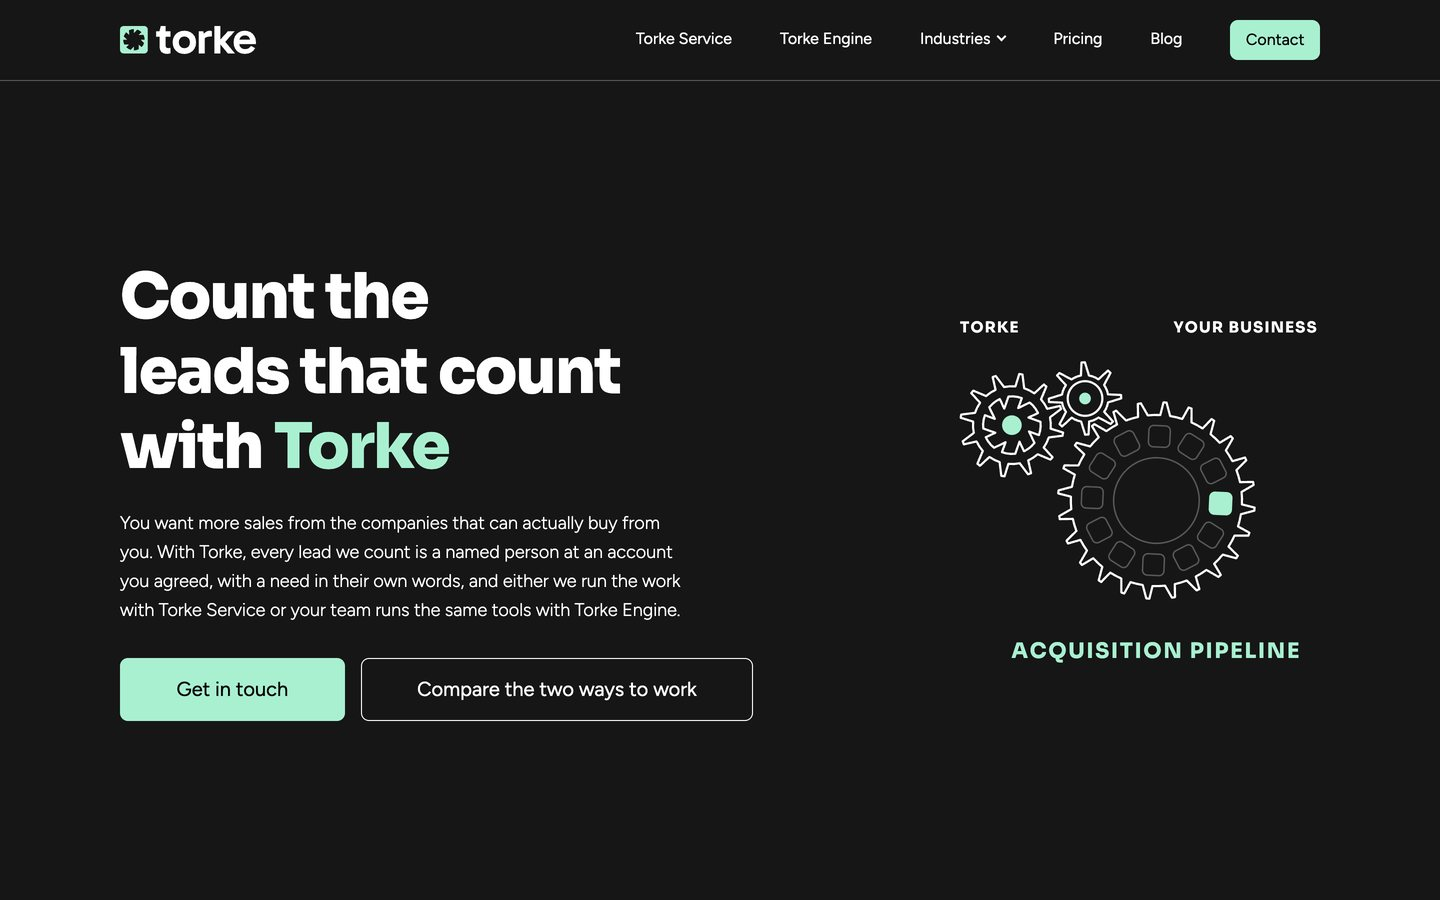
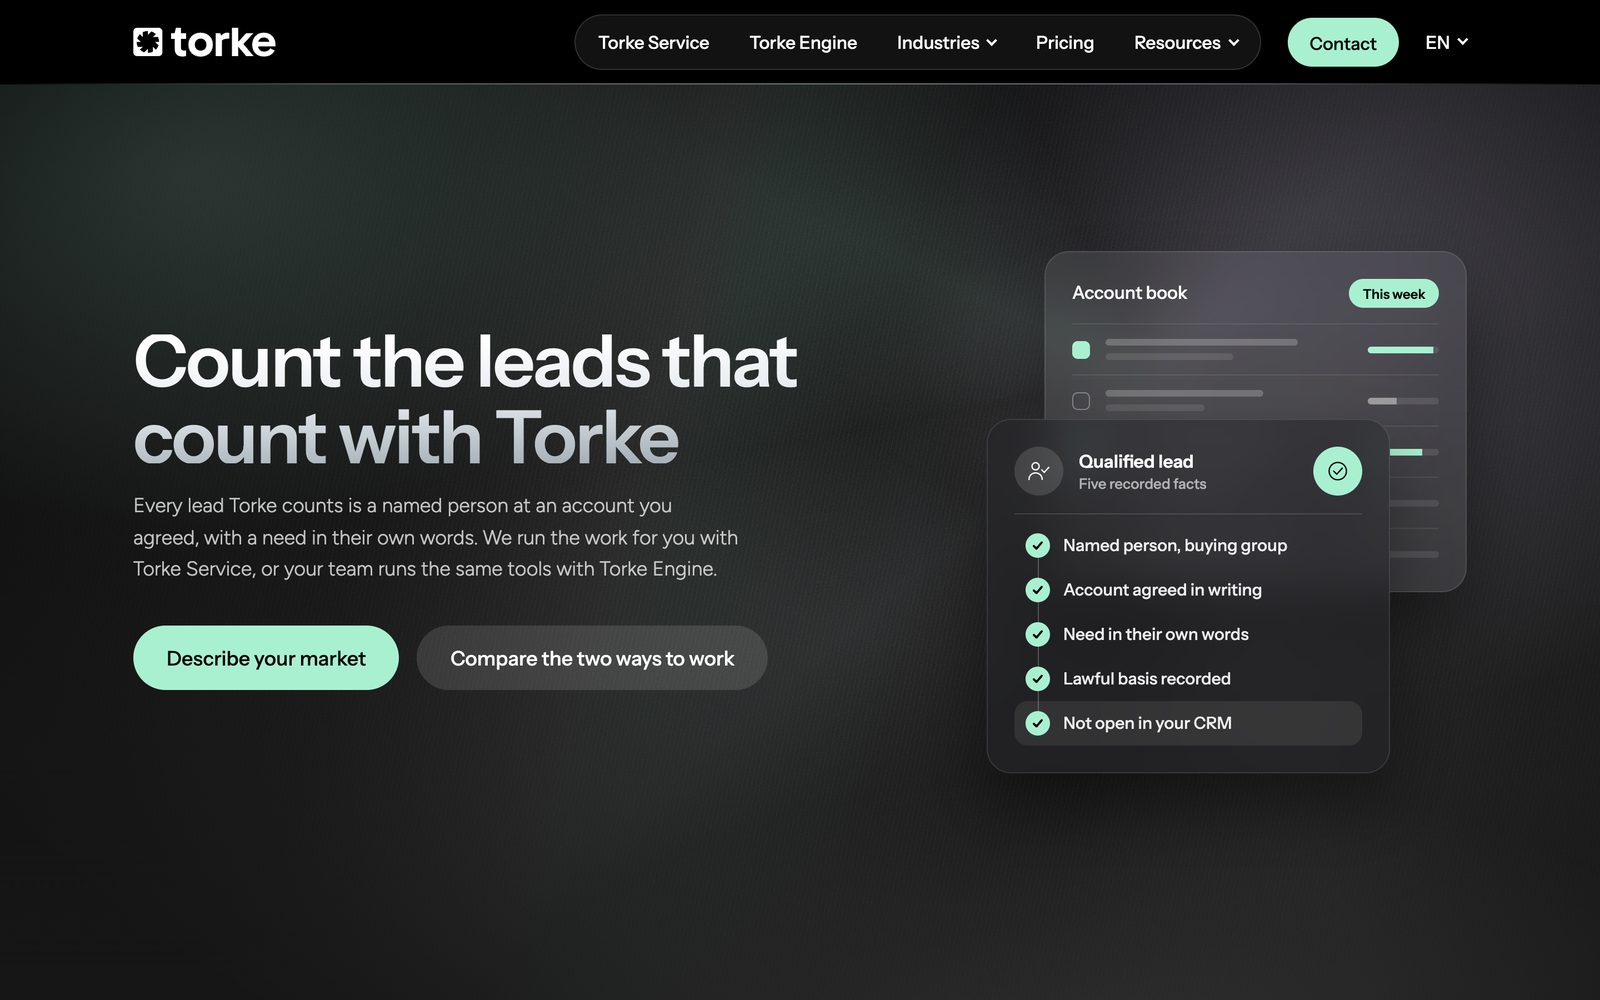
Torke: show the Website v3 brand and brand book v3.0 (#1)
Update only the Torke book: cover and notes to v3.0, Instrument Sans and
Figtree in place of Sora, new home and phone screenshots, two pages on the
floating panels and the pill buttons and glass form, four v3.0 brand book
pages, and the delivered list. Removes the retired v2 widget images.

diff --git a/index.html b/index.html
@@ -7,7 +7,7 @@
 <meta name="description" content="The brand books of Torke, Autobasket, Quanthome and Neurock: the story, the system, the website and the ads behind each one.">
 <link rel="preconnect" href="https://fonts.googleapis.com">
 <link rel="preconnect" href="https://fonts.gstatic.com" crossorigin>
-<link href="https://fonts.googleapis.com/css2?family=Figtree:wght@400;600;700&family=Geist:wght@400..800&family=Hanken+Grotesk:wght@400;500;600;700&family=IBM+Plex+Mono:wght@400;500&family=IBM+Plex+Sans:wght@400;600&family=Inter:wght@400;500;600&family=Lato:wght@400;700&family=Sora:wght@700;800&display=swap" rel="stylesheet">
+<link href="https://fonts.googleapis.com/css2?family=Figtree:wght@400;600;700&family=Geist:wght@400..800&family=Hanken+Grotesk:wght@400;500;600;700&family=IBM+Plex+Mono:wght@400;500&family=IBM+Plex+Sans:wght@400;600&family=Instrument+Sans:wght@500;600&family=Inter:wght@400;500;600&family=Lato:wght@400;700&family=Sora:wght@700;800&display=swap" rel="stylesheet">
 <link rel="stylesheet" href="styles.css">
 <script>document.documentElement.classList.add('js')</script>
 </head>
@@ -68,7 +68,7 @@
     <div class="notes">
       <article class="note n1"><h3>Who it speaks to</h3><p>Revenue leads at AI, robotics, sensing and data companies that sell to a few hundred named accounts, where a broad campaign spends its budget on people who will never buy.</p></article>
       <article class="note n2"><h3>Why a ratchet</h3><p>Torke reads as torque, the force that moves a heavy load. The mark chosen on 14 October 2026 is an internal ratchet, a part that turns forward and holds its position, which is what a pipeline should do.</p></article>
-      <article class="note n3"><h3>Why black, blush and aquamarine</h3><p>Every text pair is one dark colour on one light one, so black on aquamarine reaches 16.07:1. Aquamarine covers 5 percent of a page, so wherever it appears it marks the next step.</p></article>
+      <article class="note n3"><h3>Why black panels and one green</h3><p>Since Website v3 the page sits on black, and every section floats on it as a rounded panel in dark metal, mint or white. Black on aquamarine still reaches 16.07:1, so the main button reads at any size.</p></article>
       <article class="note n4"><h3>The line</h3><p>Demand with momentum, picked on 15 October 2026 from 100 candidates, sits beside the headline Count the leads that count with Torke.</p></article>
     </div>
     <div class="book-wrap">
@@ -79,7 +79,7 @@
           <div class="cover-in left">
             <img class="cover-logo" src="assets/torke/lockup-white.svg" alt="Torke" width="2959" height="616">
             <p class="cover-line">Demand with momentum</p>
-            <p class="cover-foot">Brand book, 15 October 2026, v2.11</p>
+            <p class="cover-foot">Brand book, 12 November 2026, v3.0</p>
           </div>
         </div>
 
@@ -107,8 +107,8 @@
 
         <div class="pg light">
           <h3>A heavy brand for a heavy market</h3>
-          <p>Growth services for B2B companies are a crowded field, and much of it looks alike, with a dark hero, a gradient and a promise of more leads. Torke had to look as if it could carry weight, so the identity borrows from machinery: the mark is a ratchet, the headlines are short and heavy in Sora 800, and the copy rules ban words like powerful and seamless.</p>
-          <p>A technical buyer used to agency decks meets pages that read closer to an engineering document, which is the register that buyer already trusts. Blush and white carry the page, black carries the type, and one aquamarine marks the single thing to do next.</p>
+          <p>Growth services for B2B companies are a crowded field, and much of it looks alike, with a dark hero, a gradient and a promise of more leads. Torke had to look as if it could carry weight, so the identity borrows from machinery: the mark is a ratchet, the surfaces look like brushed metal, and the copy rules ban words like powerful and seamless.</p>
+          <p>A technical buyer used to agency decks meets pages that read closer to an engineering document, which is the register that buyer already trusts. Since Website v3 on 11 November 2026, headings and every label are set in Instrument Sans, a narrow grotesk measured against Figtree so a heading never looks a size too large, and one aquamarine pill marks the single thing to do next.</p>
         </div>
 
         <div class="pg dark">
@@ -139,8 +139,8 @@
           </div>
           <p>Aquamarine gets only 5 percent of any page, which keeps the signature colour working as a signal.</p>
           <div class="specimen">
-            <div><span class="aa" style="font-family:Sora;font-weight:800">Aa</span><b>Sora 800</b><small>Headings and titles</small></div>
-            <div><span class="aa" style="font-family:Figtree">Aa</span><b>Figtree</b><small>Body, since 16 October</small></div>
+            <div><span class="aa" style="font-family:'Instrument Sans';font-weight:600">Aa</span><b>Instrument Sans 600</b><small>Headings and interface text</small></div>
+            <div><span class="aa" style="font-family:Figtree">Aa</span><b>Figtree</b><small>Paragraphs</small></div>
           </div>
         </div>
 
@@ -155,32 +155,29 @@
 
         <div class="pg light">
           <h3>torke.tech</h3>
-          <p>The home page, captured live on 17 October 2026, opens on the headline Count the leads that count with Torke and one paragraph that defines the lead before any offer: a named person at an account you agreed, with a need in their own words.</p>
-          <img class="shot" src="assets/shots/torke-desktop.jpg" alt="torke.tech home page at desktop width" loading="lazy" width="1440" height="900">
+          <p>The Website v3 home page, redesigned on 11 November 2026, opens on brushed metal with the headline Count the leads that count with Torke, and beside it a glass account book and a qualified lead with its five recorded facts.</p>
+          <img class="shot" src="assets/shots/torke-desktop.jpg" alt="torke.tech Website v3 home page at desktop width: the headline beside a glass account book and a qualified lead card" loading="lazy" width="1600" height="1000">
         </div>
 
         <div class="pg dark split-phone">
-          <div class="phone"><img src="assets/shots/torke-phone.jpg" alt="torke.tech on a phone" loading="lazy" width="665" height="1440"></div>
+          <div class="phone"><img src="assets/shots/torke-phone.jpg" alt="torke.tech Website v3 on a phone: the headline, two stacked pill buttons and the account book" loading="lazy" width="780" height="1688"></div>
           <div>
-            <h3>One drawing per page</h3>
-            <p>Each one shows the object its page is about, built from aquamarine circles, outlined rows and cards, like the meshing gears on the home page.</p>
+            <h3>The same system on a phone</h3>
+            <p>Panels sit 10px from the edge with a 24px radius, both buttons stack at full width, and the account book and the qualified lead overlap a little so both stay readable.</p>
             <a class="btn" href="https://torke.tech">Visit torke.tech</a>
           </div>
         </div>
 
         <div class="pg light">
-          <h3>Two widgets on the home page</h3>
-          <p>The drawing starts turning once it comes into view and winds up with every scroll, to six times its resting pace. Each of its twelve account cells lights up as it passes the qualifying point and stays lit, so the pipeline fills while you read. The consent panel, added on 17 October 2026, asks one plain question and keeps ad tracking off whatever the answer.</p>
-          <div class="widget-pair">
-            <figure><h4>The acquisition pipeline</h4><img src="assets/widgets/torke-gears.jpg" alt="Torke home drawing: two small gears drive a large wheel whose account cells light up in aquamarine" loading="lazy" width="640" height="650"></figure>
-            <figure><h4>The consent question</h4><img src="assets/widgets/torke-consent.jpg" alt="Torke consent panel asking whether the visitor is okay with sharing information about the visit, with No and Yes buttons" loading="lazy" width="640" height="480"></figure>
-          </div>
+          <h3>Panels on black</h3>
+          <p>Every section floats on the black ground as a rounded panel, in a fixed order of dark metal, mint, dark metal and white, so two neighbours never share a ground. Dark panels carry glass cards, white at 5.5 percent with a faint hairline, and their colour glows stay under 17 percent.</p>
+          <img class="shot" src="assets/torke/v3-panels.jpg" alt="Two Website v3 panels: What is Torke on dark brushed metal, then Why does B2B demand generation fail in a small market on mint" loading="lazy" width="1600" height="1000">
         </div>
 
         <div class="pg dark">
-          <h3>Service or Engine, row by row</h3>
-          <p>The comparison sets the two ways to work against the same five rows, from the question each one answers to what the client keeps at the end, with a drawn icon opening every row.</p>
-          <img class="widget-wide" src="assets/widgets/torke-compare.jpg" alt="Torke comparison table of Torke Service and Torke Engine across five rows: your question, who does the work, what you get, what you pay for, what you keep" loading="lazy" width="1100" height="570">
+          <h3>Solid pills and a glass form</h3>
+          <p>Every button is a plain solid pill with no outline: aquamarine with black text on dark, black on mint and white. The form is always its own dark card, with frosted fields and topics as pill toggles, and a link to it puts the cursor in the first field.</p>
+          <img class="shot" src="assets/torke/v3-form.jpg" alt="Website v3 contact form: a dark glass card on a mint panel with frosted fields, three topic pills and an aquamarine Send button" loading="lazy" width="1600" height="1000">
         </div>
 
         <div class="pg light">
@@ -229,14 +226,14 @@
         </div>
 
         <div class="pg light">
-          <h3>The brand book, 25 pages</h3>
+          <h3>The brand book, 31 pages</h3>
           <div class="thumbs">
-            <img src="assets/torke/book-05.jpg" alt="Brand book page: the name" loading="lazy" width="1400" height="787">
-            <img src="assets/torke/book-07.jpg" alt="Brand book page: the mark" loading="lazy" width="1400" height="787">
-            <img src="assets/torke/book-12.jpg" alt="Brand book page: colour" loading="lazy" width="1400" height="787">
-            <img src="assets/torke/book-17.jpg" alt="Brand book page: illustrations" loading="lazy" width="1400" height="787">
+            <img src="assets/torke/book-13.jpg" alt="Brand book page: surfaces and light" loading="lazy" width="1400" height="788">
+            <img src="assets/torke/book-16.jpg" alt="Brand book page: typography" loading="lazy" width="1400" height="788">
+            <img src="assets/torke/book-21.jpg" alt="Brand book page: panel rhythm" loading="lazy" width="1400" height="788">
+            <img src="assets/torke/book-24.jpg" alt="Brand book page: buttons and header" loading="lazy" width="1400" height="788">
           </div>
-          <p>The name, the mark, the colour and the illustrations, from a book that ends on twelve checks every page passes before it ships.</p>
+          <p>Version 3.0 records Website v3: the surfaces, the type pair, the panel rhythm and the buttons, in a book that ends on twelve checks every page passes before it ships.</p>
         </div>
 
         <div class="pg dark">
@@ -244,8 +241,8 @@
           <ul class="delivered">
             <li>Name story, tagline and headline, chosen from 100 candidates</li>
             <li>Logo system in seven colours, with favicons and tagline lockups</li>
-            <li>Brand book, 25 pages, v2.11</li>
-            <li>Website at torke.tech with tokens and custom icons</li>
+            <li>Brand book, 31 pages, v3.0</li>
+            <li>Website v3 at torke.tech: floating panels, glass cards and custom icons</li>
             <li>Eight illustrations and three demand-gen articles</li>
             <li>LinkedIn banner, profile image and email signature</li>
             <li>Lexicon and voice rules</li>

diff --git a/styles.css b/styles.css
@@ -431,10 +431,10 @@ ul.delivered li::before { content: ''; position: absolute; left: 0; top: .62em; 
 .theme-neurock .pg.light .btn { color: #f6ff47; }
 .theme-neurock .pg.dark .btn { color: #101417; }
 .theme-torke {
-  --hf: Sora, sans-serif; --bf: Figtree, sans-serif;
+  --hf: 'Instrument Sans', Figtree, sans-serif; --hw: 600; --bf: Figtree, sans-serif;
   --l-bg: #f7ebec; --l-ink: #161616; --l-muted: #595959; --l-acc: #161616;
   --d-bg: #000; --d-ink: #fff; --d-muted: #a6a6a6; --d-acc: #a9f0d1;
-  --r-card: 12px; --r-btn: 8px;
+  --r-card: 18px; --r-btn: 999px;
 }
 .theme-torke .pg.light .btn { color: #a9f0d1; }
 .theme-autobasket {
